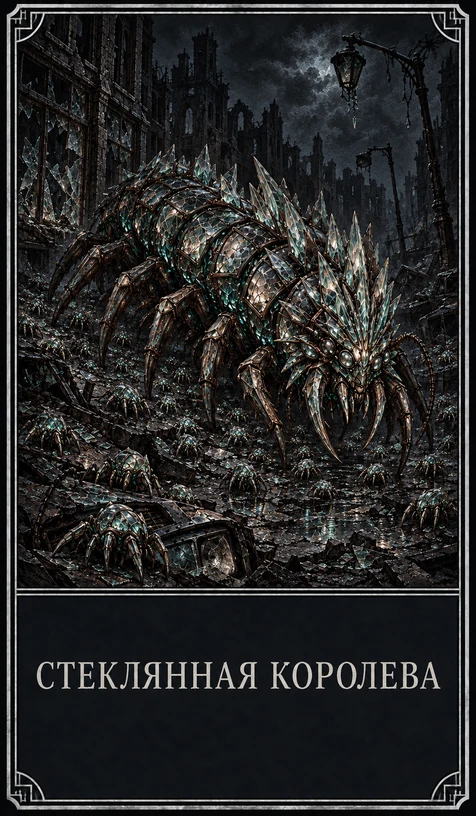
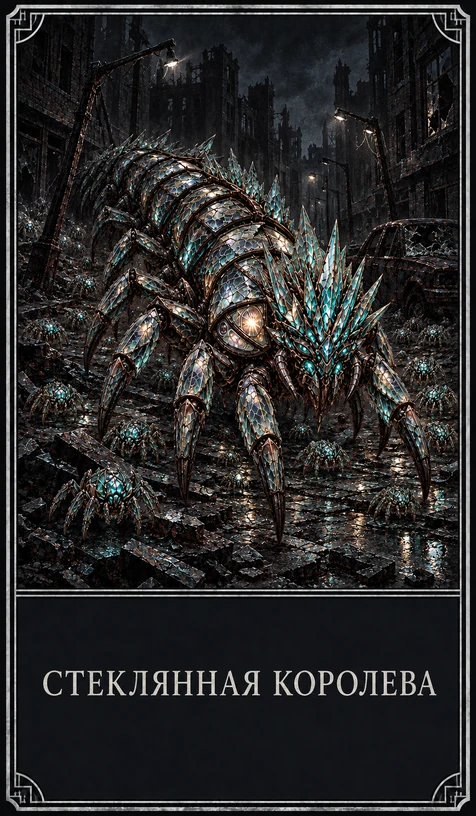
Бродячие боссы: новый комплект картинок владельца; все материалы игры — в проекте (05.10)
Комплект 05.10 (листы ракурсов 2×2 без подставок и 8 карт) скопирован в проект — docs/assets/art/wanderers/ (вместе с
запасными вариантами) — и импортирован новым tools/import_wanderers.py: лист режется на 4 ракурса по прозрачной щели,
у ракурсов одного босса — один масштаб и общая линия земли; карты вписываются по серебряной кромке в 476×816.
Прежний срез подставок (clean_wanderer_tokens.py, читал папку Codex) удалён. Тень у ног — на новой линии земли.

Проверка «все материалы внутри проекта»: игра берёт картинки, звуки и данные только из res:// — абсолютных путей и
ссылок на папки компьютера в коде, сценах и данных нет; все 158 статических путей res:// ведут к файлам проекта.
Исправлено: у 32 противников путь к картинке вёл на несуществующий .png (картинка есть как .webp — игра находила
её запасным путём) — теперь прямо на файл; gen_combat_data.py выбирает тот файл, что есть. Правило — в CLAUDE.md.

diff --git a/tools/import_wanderers.py b/tools/import_wanderers.py
@@ -1,0 +1,107 @@
+"""Картинки бродячих боссов (docs/22) → игра. Исходники лежат в проекте: docs/assets/art/wanderers/
+(листы ракурсов W1_sheet.png … W4_sheet.png — 2×2, без подставок; карты MW1–MW4, LW1–LW4).
+
+Фишки: лист режется на 4 ракурса по прозрачной щели у середины (тварь может заходить за середину), каждый ракурс
+обрезается по силуэту; у всех ракурсов одного босса — один масштаб и общая линия земли (низ силуэта), чтобы при
+смене ракурса тварь не прыгала. Порядок на листе (как в промте): сверху слева — 1 (вниз-влево), сверху справа — 2
+(вниз-вправо), снизу справа — 3 (вверх-вправо, спиной), снизу слева — 4 (вверх-влево, спиной).
+→ art/map/wanderers/W*_1…4.webp (512×512, прозрачность).
+
+Карты: рамка карты находится по яркой серебряной кромке и вписывается в 476×816 (7:12) с тем же полем, что у
+остальных карт игры (кромка в ~6 px от края) → art/cards/MW*.webp, LW*.webp.
+    python tools/import_wanderers.py [папка исходников]
+"""
+import os
+import sys
+
+import numpy as np
+from PIL import Image
+
+ROOT = os.path.dirname(os.path.dirname(os.path.abspath(__file__)))
+SRC = os.path.join(ROOT, "docs", "assets", "art", "wanderers")
+TOKENS = os.path.join(ROOT, "art", "map", "wanderers")
+CARDS = os.path.join(ROOT, "art", "cards")
+SIZE = 512
+GROUND = 0.92      # линия земли (низ силуэта) — доля высоты фишки
+FILL_W = 0.92      # самый широкий ракурс занимает такую долю ширины
+FILL_H = 0.86      # самый высокий — такую долю высоты
+CARD = (476, 816)
+CARD_EDGE = (6, 5)  # где у карт игры серебряная кромка: от левого/правого и от верхнего/нижнего края
+
+
+def _split(alpha, axis):
+	"""Где резать лист: линия у середины с наименьшей непрозрачностью (щель между ракурсами)."""
+	prof = alpha.sum(axis=axis)
+	n = len(prof)
+	lo, hi = int(n * 0.38), int(n * 0.62)
+	return lo + int(np.argmin(prof[lo:hi]))
+
+
+def _cells(path):
+	im = Image.open(path).convert("RGBA")
+	a = np.asarray(im)[..., 3].astype(np.float32)
+	cx = _split(a, 0)
+	cy = _split(a, 1)
+	w, h = im.size
+	boxes = {1: (0, 0, cx, cy), 2: (cx, 0, w, cy), 3: (cx, cy, w, h), 4: (0, cy, cx, h)}
+	out = {}
+	for k, b in boxes.items():
+		cell = im.crop(b)
+		bb = cell.getchannel("A").point(lambda v: 255 if v > 10 else 0).getbbox()
+		out[k] = cell.crop(bb) if bb else cell
+	return out
+
+
+def tokens(boss, src):
+	cells = _cells(os.path.join(src, "%s_sheet.png" % boss))
+	mw = max(c.width for c in cells.values())
+	mh = max(c.height for c in cells.values())
+	s = min(SIZE * FILL_W / mw, SIZE * FILL_H / mh)
+	os.makedirs(TOKENS, exist_ok=True)
+	for k, c in cells.items():
+		t = c.resize((max(1, int(c.width * s)), max(1, int(c.height * s))), Image.LANCZOS)
+		canvas = Image.new("RGBA", (SIZE, SIZE), (0, 0, 0, 0))
+		canvas.alpha_composite(t, ((SIZE - t.width) // 2, int(SIZE * GROUND) - t.height))
+		canvas.save(os.path.join(TOKENS, "%s_%d.webp" % (boss, k)), "WEBP", quality=90, method=6)
+	print(boss, "ракурсы:", {k: c.size for k, c in cells.items()}, "масштаб %.3f" % s)
+
+
+def _edge(lum, axis_len, getter):
+	for i in range(min(80, axis_len)):
+		if getter(i) > 100:
+			return i
+	return 0
+
+
+def card(cid, src):
+	im = Image.open(os.path.join(src, "%s.png" % cid)).convert("RGB")
+	a = np.asarray(im.convert("L")).astype(np.float32)
+	h, w = a.shape
+	left = _edge(a, w, lambda i: a[:, i].mean())
+	right = _edge(a, w, lambda i: a[:, w - 1 - i].mean())
+	top = _edge(a, h, lambda i: a[i, :].mean())
+	bottom = _edge(a, h, lambda i: a[h - 1 - i, :].mean())
+	fw = (w - 1 - right) - left
+	fh = (h - 1 - bottom) - top
+	ex, ey = CARD_EDGE
+	sx = (CARD[0] - 1 - 2 * ex) / fw
+	sy = (CARD[1] - 1 - 2 * ey) / fh
+	box = (left - ex / sx, top - ey / sy, w - 1 - right + ex / sx + 1, h - 1 - bottom + ey / sy + 1)
+	pad = Image.new("RGB", (w + 200, h + 200), im.getpixel((2, 2)))
+	pad.paste(im, (100, 100))
+	box = tuple(v + 100 for v in box)
+	out = pad.crop(tuple(int(round(v)) for v in box)).resize(CARD, Image.LANCZOS)
+	out.save(os.path.join(CARDS, "%s.webp" % cid), "WEBP", quality=88, method=6)
+	print(cid, "рамка %dx%d → %s (сжатие по ширине %.1f%%)" % (fw, fh, CARD, 100 * (1 - (sx / sy))))
+
+
+def main():
+	src = sys.argv[1] if len(sys.argv) > 1 else SRC
+	for b in ["W1", "W2", "W3", "W4"]:
+		tokens(b, src)
+	for c in ["MW1", "MW2", "MW3", "MW4", "LW1", "LW2", "LW3", "LW4"]:
+		card(c, src)
+
+
+if __name__ == "__main__":
+	main()

diff --git a/tools/gen_combat_data.py b/tools/gen_combat_data.py
@@ -260,6 +260,14 @@ for c in conflicts:
         c["value"] = 1.0
 
 # --- противники: data/combat/enemies.json ------------------------------------------
+
+
+def _card_art(eid):
+    """Картинка противника — тот файл, что есть в проекте (WebP, иначе PNG)."""
+    for ext in ("webp", "png"):
+        if os.path.exists(os.path.join(ROOT, "art", "cards", "%s.%s" % (eid, ext))):
+            return "res://art/cards/%s.%s" % (eid, ext)
+    return "res://art/cards/%s.webp" % eid
 ECHO = {"M03": ("U12", 0.25), "M17": ("P27", 0.05)}
 TRAUMA_POOL = {"Очарование": "mental", "Ментальное давление": "mental", "Холод": "environment"}
 enemies = []
@@ -277,7 +285,7 @@ for e in carriers["enemies"]:
         kind = "boss" if e["class"] >= 5 else ("elite" if "Элита" in e["tags"] or e["class"] >= 3 else "normal")
         ent = {"id": eid, "name": e["name"], "rank": e["rank"], "class": e["class"], "tags": e["tags"],
                "kind": kind, "shards": (e["rank"] + 1) * e["class"],
-               "art": "res://art/cards/%s.png" % eid}
+               "art": _card_art(eid)}
         if eid in ECHO:
             ent["echo"] = {"card": ECHO[eid][0], "chance": ECHO[eid][1]}
         enemies.append(ent)

diff --git a/CLAUDE.md b/CLAUDE.md
@@ -16,6 +16,9 @@
   `docs/assets/cards/templates` (пустая обложка 7:12 и её настройки) и образцы готовых карт; ко всем промтам —
   ссылки на материалы-образцы из проекта (лучше и картинками в документе); фишки на карте — 4 ракурса.
   Пример — `tools/gen_boss_prompts.py` (Word без сторонних библиотек: картинки и ссылки).
+- **Все материалы игры — в проекте** (просьба владельца 05.10): игра берёт картинки только из `res://` (art/, audio/),
+  исходники — в `docs/assets/`; инструменты импорта читают исходники из проекта, а не из папок Codex/загрузок.
+  Новый комплект от владельца — сначала скопировать в `docs/assets/…`, потом импортировать.
 - Производительность (docs/21): ничего тяжёлого в `_process` — экран обновляется по сигналам (`_queue_refresh`) и
   «слепку» состояния; досягаемость многих событий — `FigureRules.reach_all` (один обход графа); производное из данных —
   в `content.memo`; туман — маска в своей текстуре. После правок экрана карты — замер `--mshots-from=perf`. `--check-only` без автозагрузок врёт — проверять тестами (есть тест компиляции всех скриптов).
@@ -33,6 +36,7 @@ python tools/gen_figure.py                              # фигура: режи
 python tools/gen_chatter.py                             # мысли и реплики героев → data/chatter.json (docs/19)
 python tools/gen_quests.py                              # цели глав для заданий → data/quests.json (docs/20)
 python tools/gen_wanderers.py                           # бродячие боссы → data/wanderers.json и события (docs/22)
+python tools/import_wanderers.py                        # картинки боссов из docs/assets/art/wanderers → art/ (docs/22)
 python tools/ctx.py …                                  # справки по данным
 python tools/editor/server.py                          # редактор контента (http://127.0.0.1:8765), вкладка «Сила» — баланс и статистика боёв
 ```

diff --git a/docs/22 — Бродячие боссы.md b/docs/22 — Бродячие боссы.md
@@ -59,11 +59,12 @@
   задания — `QuestRules` (kind `boss`).
 - Тест — `tests/test_wanderers.gd`; снимки — `--mshots-from=bosses`.
 
-## 6. Подставки и тени (04.10)
+## 6. Картинки (05.10)
 
-У первого комплекта фишек под тварью была своя плита земли — на карте она выделялась на любой текстуре. Скрипт
-`tools/clean_wanderer_tokens.py` срезал подставки: края плиты растворяются по овалу в прозрачность, середина под тварью
-мягко тает, тело (по цвету, не похожему на землю) не растворяется; пишет `art/map/wanderers/W*_*.webp`. Тень у ног и
-фиолетовый ореол рисует игра (`WanderToken`). Промты в Word переписаны: фишка — только тело, без земли и подставки,
-на прозрачном фоне (землю даёт карта).
-
+Комплект владельца 05.10 — листы ракурсов 2×2 без подставок и 8 карт; исходники лежат в проекте:
+`docs/assets/art/wanderers/` (`W1_sheet.png` … `W4_sheet.png`, `MW1–MW4.png`, `LW1–LW4.png`; запасные варианты —
+`*_alt.png`, `W1_single_*.png`). Импорт — `python tools/import_wanderers.py`: лист режется на 4 ракурса по
+прозрачной щели, у ракурсов одного босса — один масштаб и общая линия земли (не прыгают при повороте) →
+`art/map/wanderers/W*_1…4.webp` 512×512; карты вписываются по серебряной кромке в 476×816 → `art/cards/*.webp`.
+Тень у ног и фиолетовый ореол рисует игра (`WanderToken`). Прежний срез подставок (`clean_wanderer_tokens.py`)
+больше не нужен — удалён.
